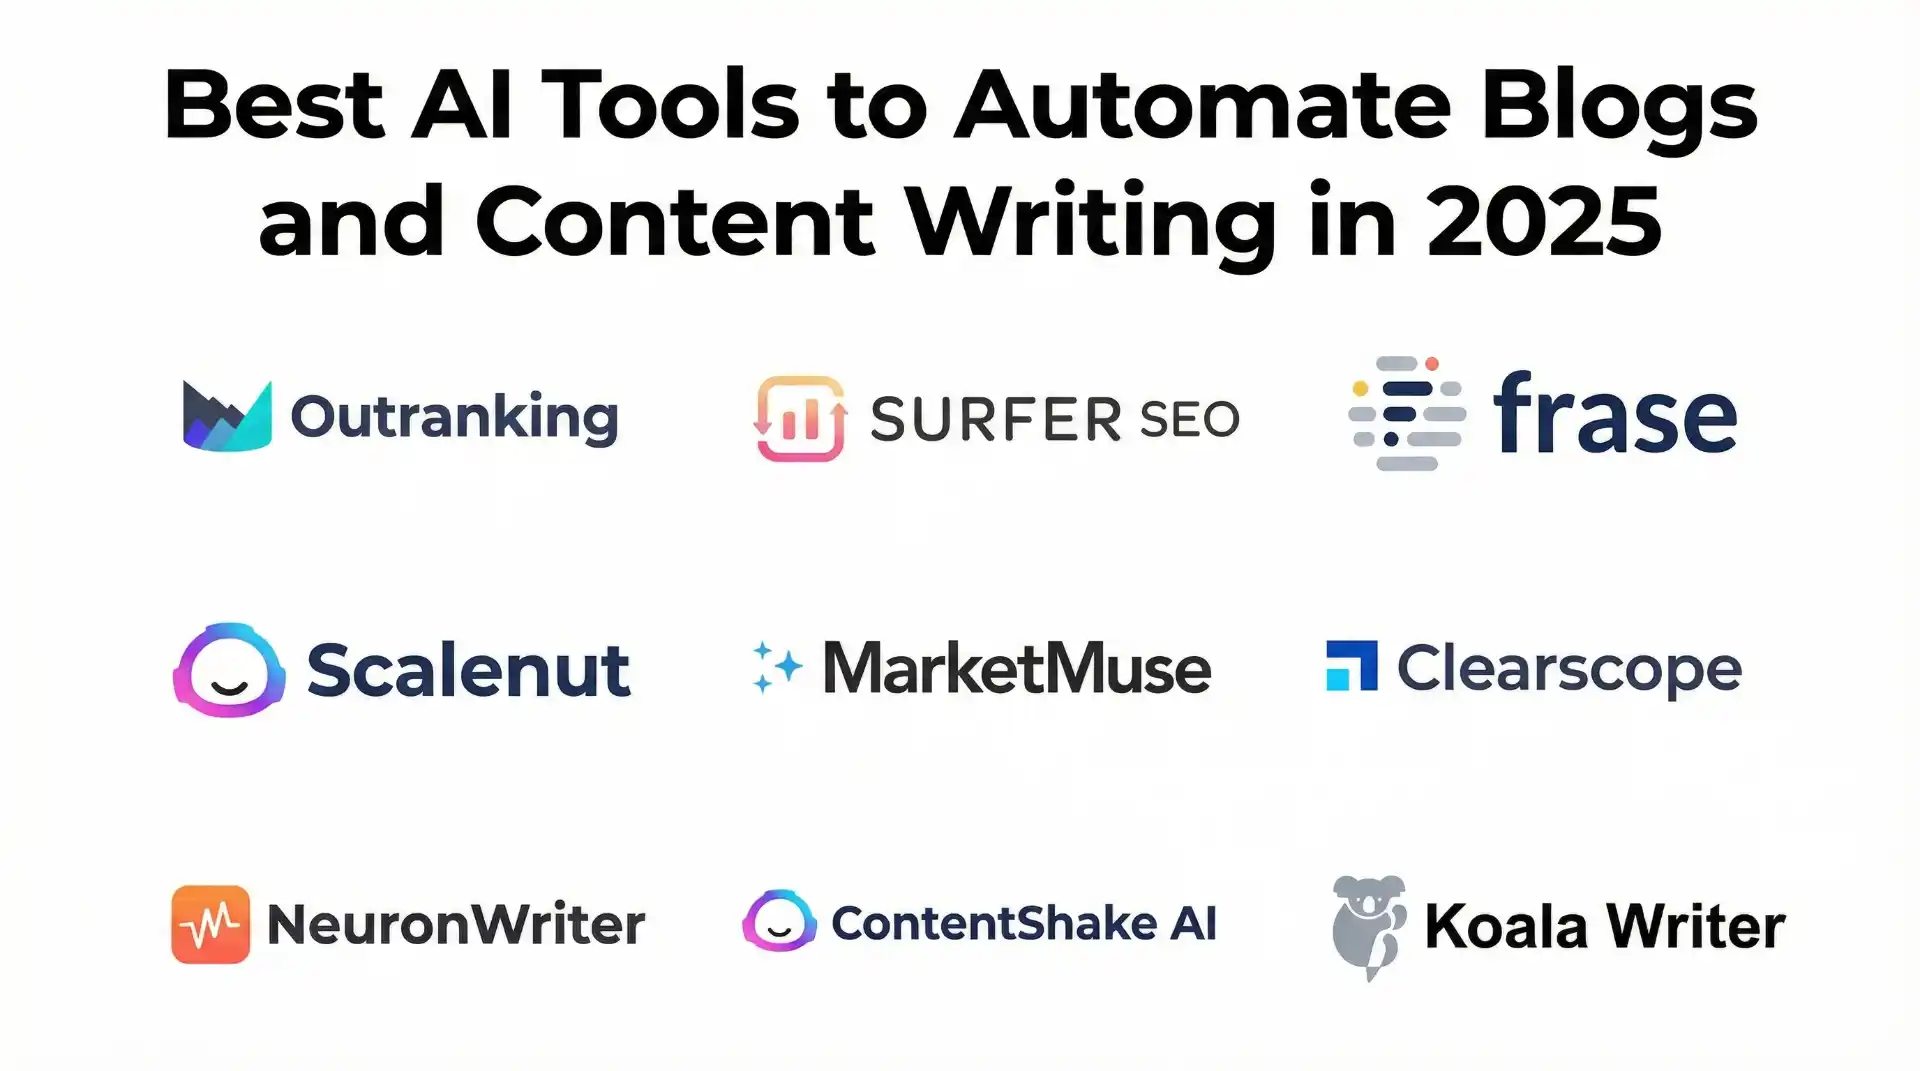
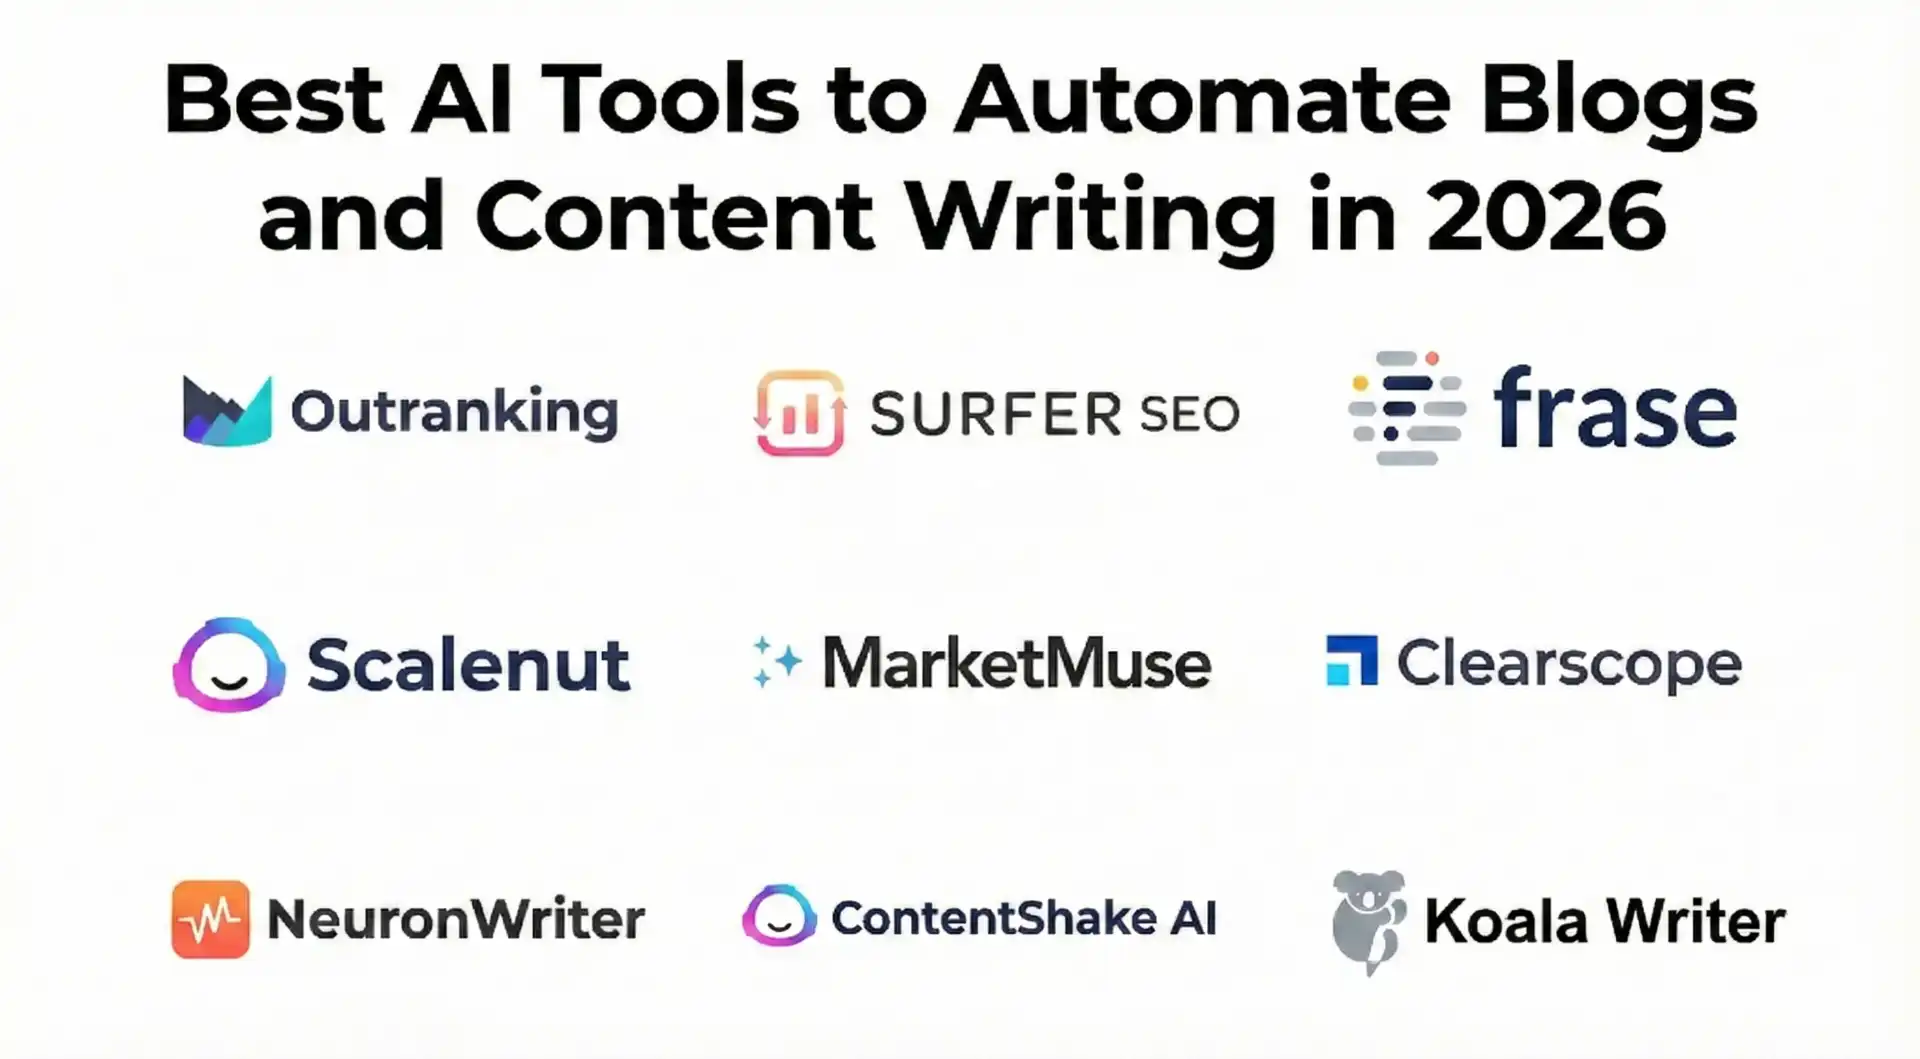
Update blog post for best AI tools in content writing to reflect 2026 insights and changes

diff --git a/content/blog/best_ai_tools_for_blog_and_content_writing.md b/content/blog/best_ai_tools_for_blog_and_content_writing.md
@@ -1,11 +1,12 @@
 ---
-title: "Best AI Tools to Automate Blogs and Content Writing in 2025"
-description: "Discover the best AI tools for automating blog writing and content creation in 2025. Compare ChatGPT, Claude, Jasper AI, Copy.ai, and more to streamline your content workflow."
+title: "Best AI Tools to Automate Blogs and Content Writing in 2026"
+description: "Discover the best AI tools for automating blog writing and content creation in 2026. Compare ChatGPT, Claude, Jasper AI, Copy.ai, and more to streamline your content workflow."
 date: 2025-11-28T14:15:25+05:30
+lastmod: 2026-01-04T15:15:25+05:30
 draft: false
 og_image: "images/best_ai_tools_for_blog_and_content_writing/ai_content_writing.webp"
 tags: ["AI tools", "content writing", "blogging", "automation", "SEO"]
[2 lines of base64/hex data omitted]
 outputs:
   - HTML
   - AMP
@@ -15,9 +16,9 @@ outputs:
 
 Content creation is one of the most time-consuming tasks in digital marketing, development, and blogging. Whether you're writing technical docs, marketing copy, or regular blog posts, the demand for high-quality content never slows down. AI writing tools have transformed this process, helping creators produce better content in less time.
 
-In 2025, AI tools have evolved far beyond simple text generation. Today’s platforms understand context, maintain brand voice, optimize for SEO, generate visuals, and even automate publishing. From general-purpose AIs like ChatGPT and Claude to specialized tools like Jasper AI and Copy.ai, there’s a solution for every workflow.
+In 2026, AI tools have evolved far beyond simple text generation. Today’s platforms understand context, maintain brand voice, optimize for SEO, generate visuals, and even automate publishing. From general-purpose AIs like ChatGPT and Claude to specialized tools like Jasper AI and Copy.ai, there’s a solution for every workflow.
 
-In this guide, we’ll explore the best AI tools to automate blogs and content writing in 2025, helping you streamline your workflow and boost productivity.
+In this guide, we’ll explore the best AI tools to automate blogs and content writing in 2026, helping you streamline your workflow and boost productivity.
 
 ### Comparison Table for Best AI Content Writing Tools
 
@@ -126,9 +127,9 @@ AI writing tools have transformed content creation, reducing hours of research, 
 
 When selecting an AI tool, consider your specific needs. SEO-focused tools like Outrank, Surfer SEO, and Frase excel at blog posts with SERP analysis and keyword optimization. Jasper AI is ideal for marketing copy and brand content. Evaluate pricing ($9/mo for Koala Writer to $129/mo for Clearscope), integration capabilities (WordPress, CMS, Google Docs), and features that match your workflow. Most tools offer free trials to test before committing.
 
-### Best AI Tools for Blog and Content Writing in 2025
+### Best AI Tools for Blog and Content Writing in 2026
 
-Let's explore the top AI writing tools available in 2025, examining their strengths, features, and ideal use cases.
+Let's explore the top AI writing tools available in 2026, examining their strengths, features, and ideal use cases.
 
 #### 1. Outrank
 
@@ -445,6 +446,6 @@ Successfully incorporating AI into your content creation process requires though
 
 ### Conclusion
 
-AI writing tools have made content creation faster and smarter. In 2025, SEO focused platforms like Outrank, Surfer SEO, and Frase lead the way by combining AI writing with strong optimization features. Affordable tools like Koala Writer and NeuronWriter also offer great value, while Jasper AI helps maintain brand consistency.
+AI writing tools have made content creation faster and smarter. In 2026, SEO focused platforms like Outrank, Surfer SEO, and Frase lead the way by combining AI writing with strong optimization features. Affordable tools like Koala Writer and NeuronWriter also offer great value, while Jasper AI helps maintain brand consistency.
 
 Use AI as an assistant let it handle research, drafts, and optimization, but always add your own insights and creativity. Start with free trials, find what fits your workflow, and combine tools when needed. The future of content creation is all about using AI and human expertise together to create better content that ranks.
